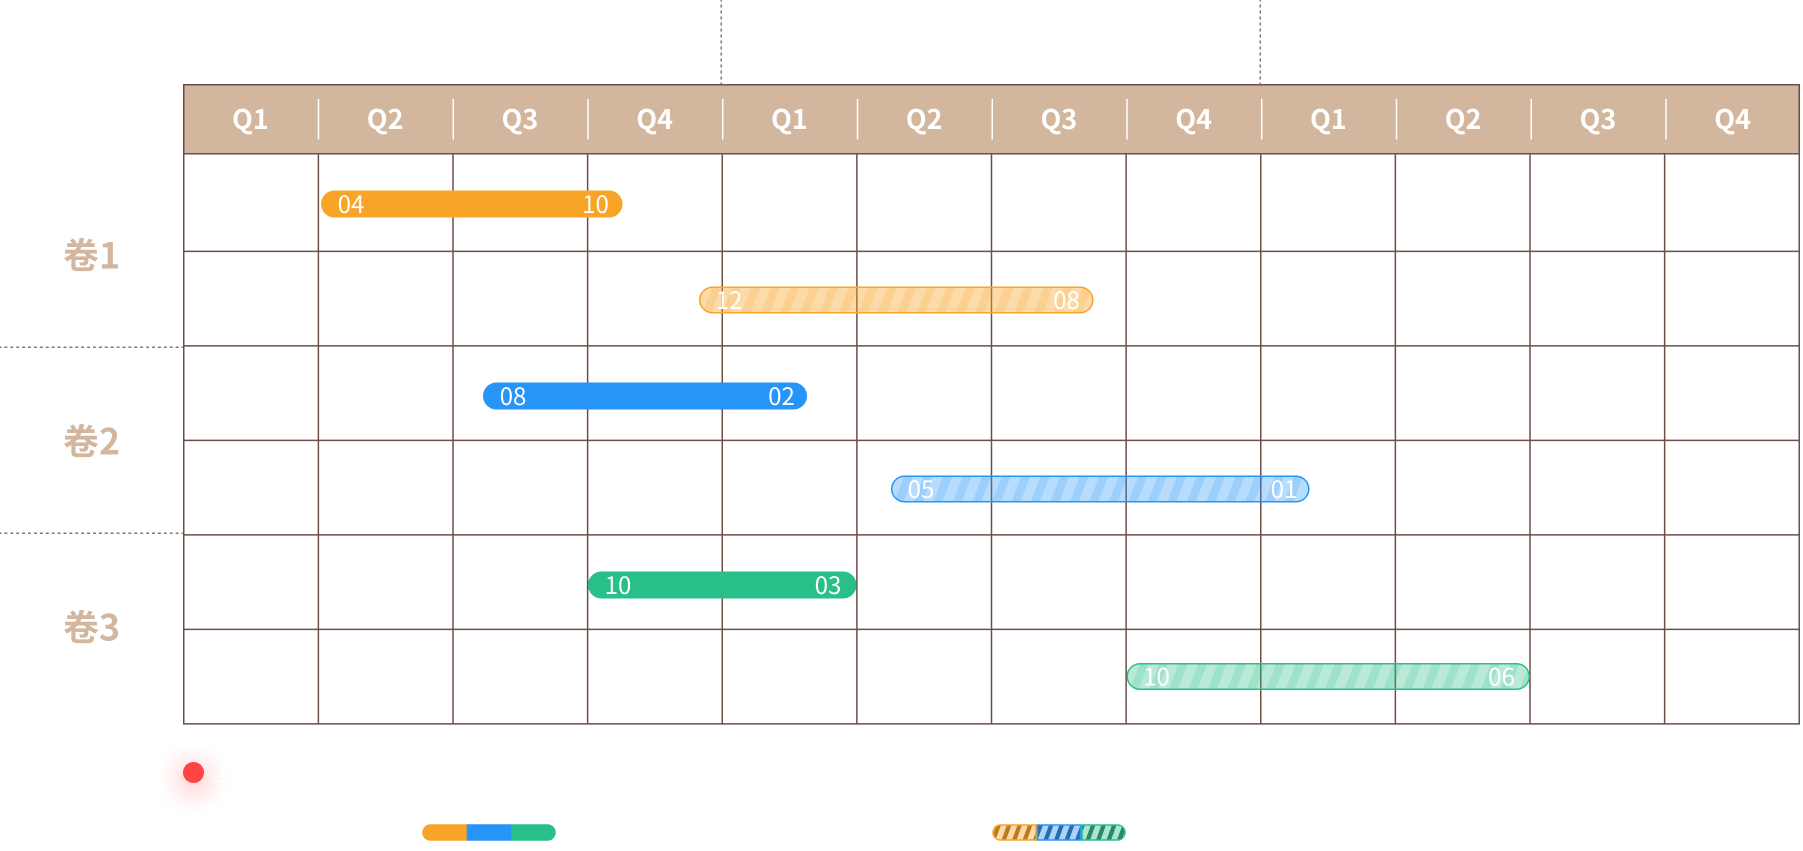
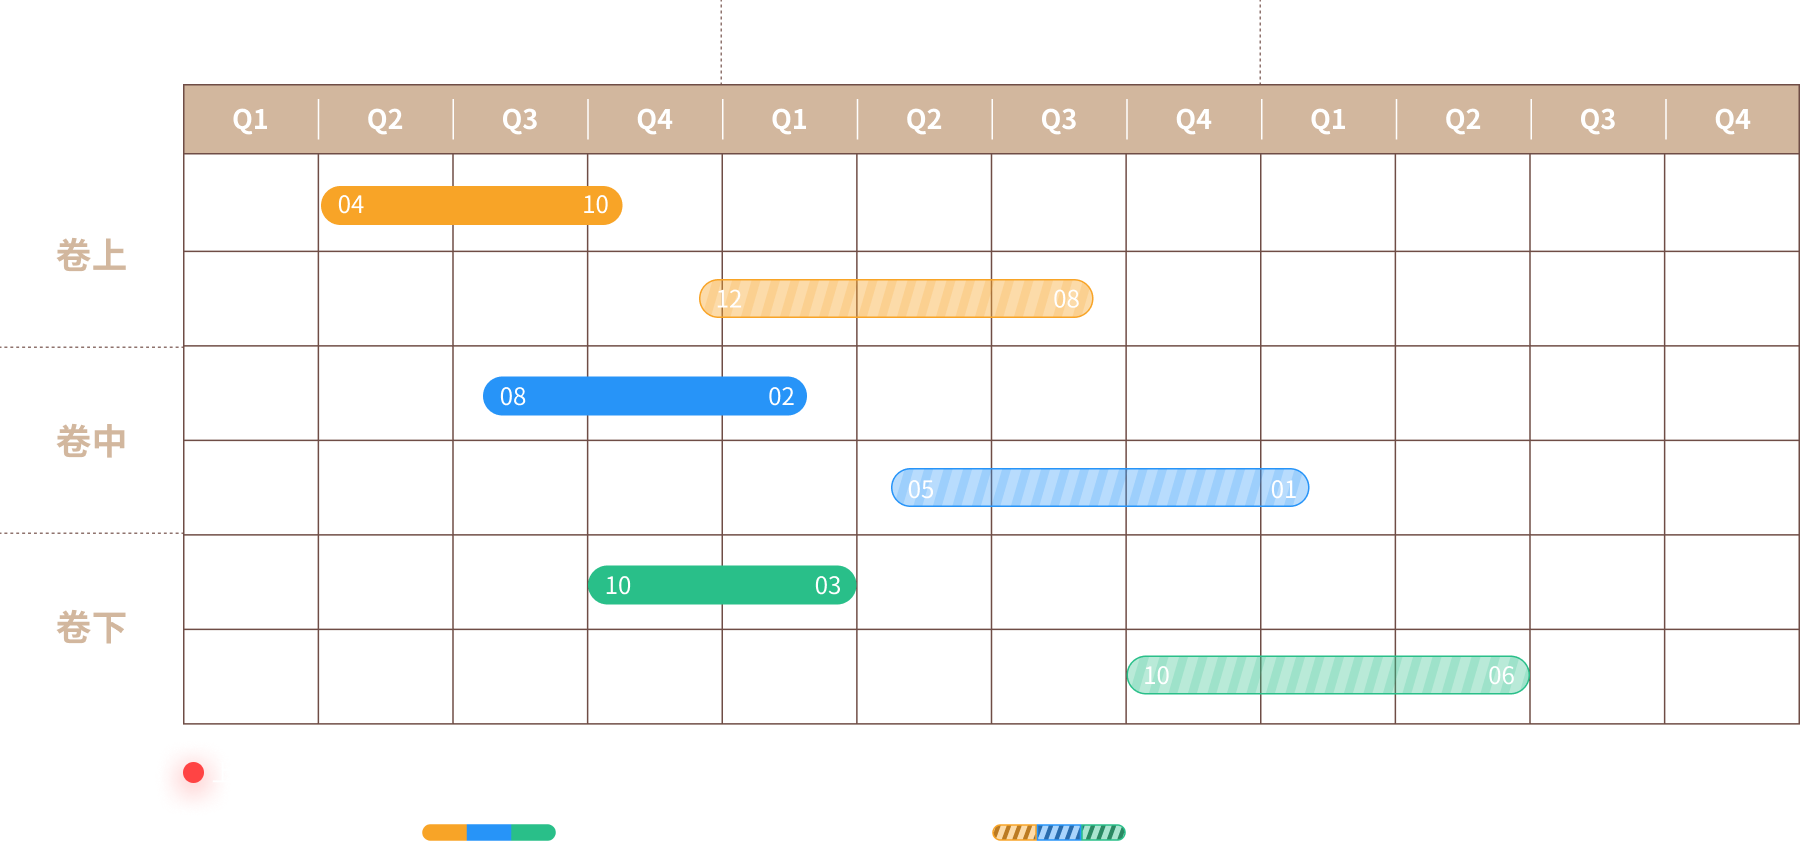
增加进度条

diff --git a/gm/index-hk.html b/gm/index-hk.html
@@ -2,7 +2,7 @@
 <html lang="zh-CN">
 <head>
     <meta charset="utf-8">
-    <title>《申命记注释：摩西的福音》</title>
+    <title>《申命記註釋：摩西的福音》</title>
     <!-- SEO Meta Tags-->
     <meta name="description" content="恩道电子书是恩道出版（香港）有限公司旗下的基督教电子书阅读平台，旨在通过与主内的出版机构合作，协力促进华文基督教资源电子化，帮助全球华人基督徒，更加便捷地获取并阅读基督教图书。">
     <meta name="keywords" content="基督教,主内,电子书,基督教电子书,基督教图书,主内电子书,主内图书,福音真理,圣经辅读,圣经注释,恩道书房,恩道出版,恩道出版社、申命记注视、摩西的福音">
@@ -22,6 +22,13 @@
 
     <!-- Custom styles for this template -->
     <link href="css/style.css" rel="stylesheet">
+    <style>
+      body{
+        font-variant-east-asian: traditional;
+      }
+    </style>
+  </head>
+
   <body>
 
     <!-- Navigation -->
@@ -34,7 +41,7 @@
         </button>
         <div class="collapse navbar-collapse" id="navbarResponsive">
           <ul class="navbar-nav ml-auto">
-            <li class="nav-item"><a class="nav-link" href="index-hk.html">繁體</a></li>
+            <li class="nav-item"><a class="nav-link" href="index.html">简体</a></li>
             <!-- <li class="nav-item"><a class="nav-link" href="index-en.html">English</a></li> -->
           </ul>
         </div>
@@ -196,7 +203,7 @@
           <div class="row">
             <div class="col-md-12 text-center">
               <div class="image align-center padding-bottom-2x">
-                <img src="img/time-cn.png" alt="biao">
+                <img src="img/time-hk.png" alt="biao">
               </div>
             </div>
           </div>

diff --git a/gm/css/style.css b/gm/css/style.css
@@ -1010,3 +1010,6 @@ a:hover {
 .padding-bottom-1x {
     padding-bottom: 32px !important;
 }
+.bar-color {
+    background-color: #ECA845 !important;
+}
